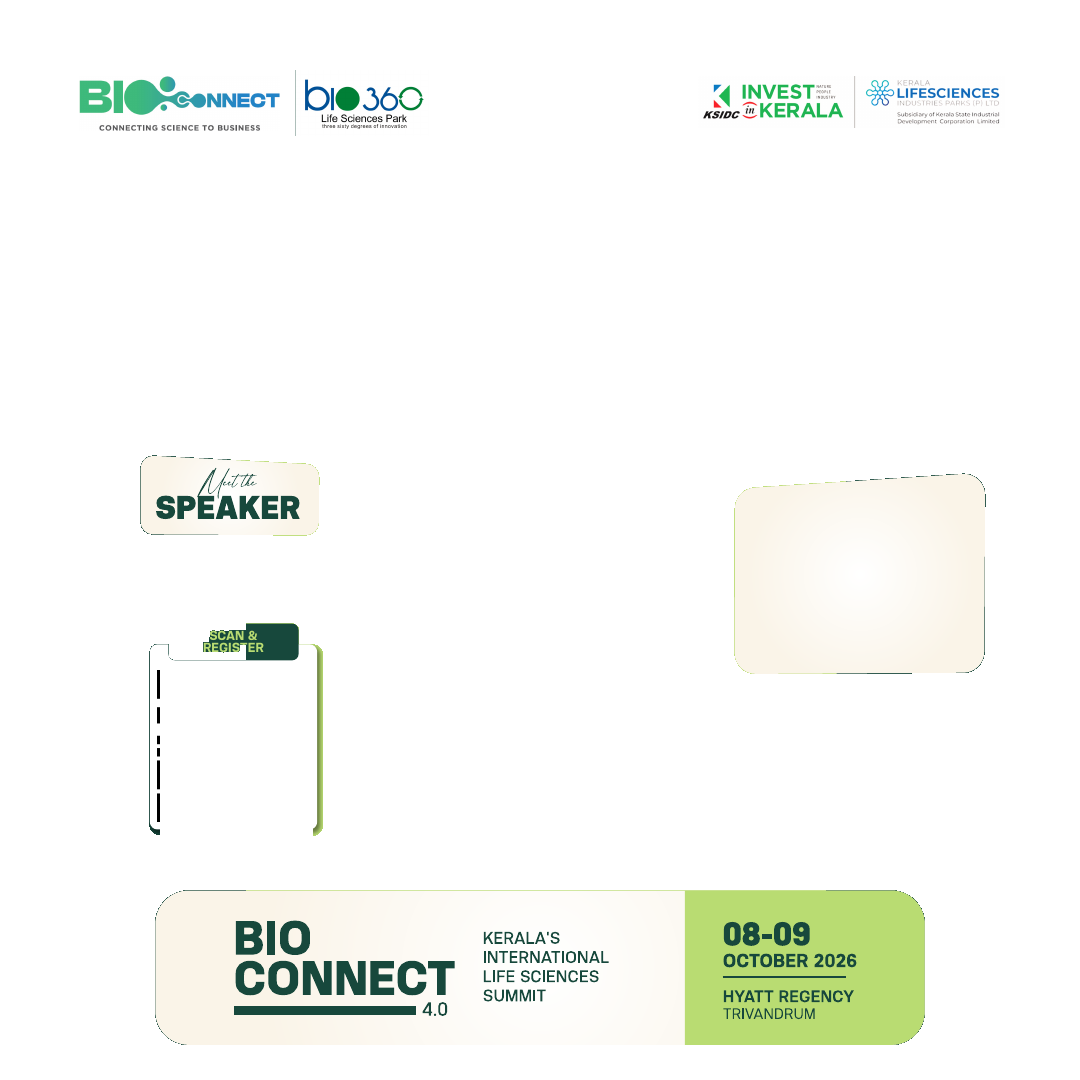
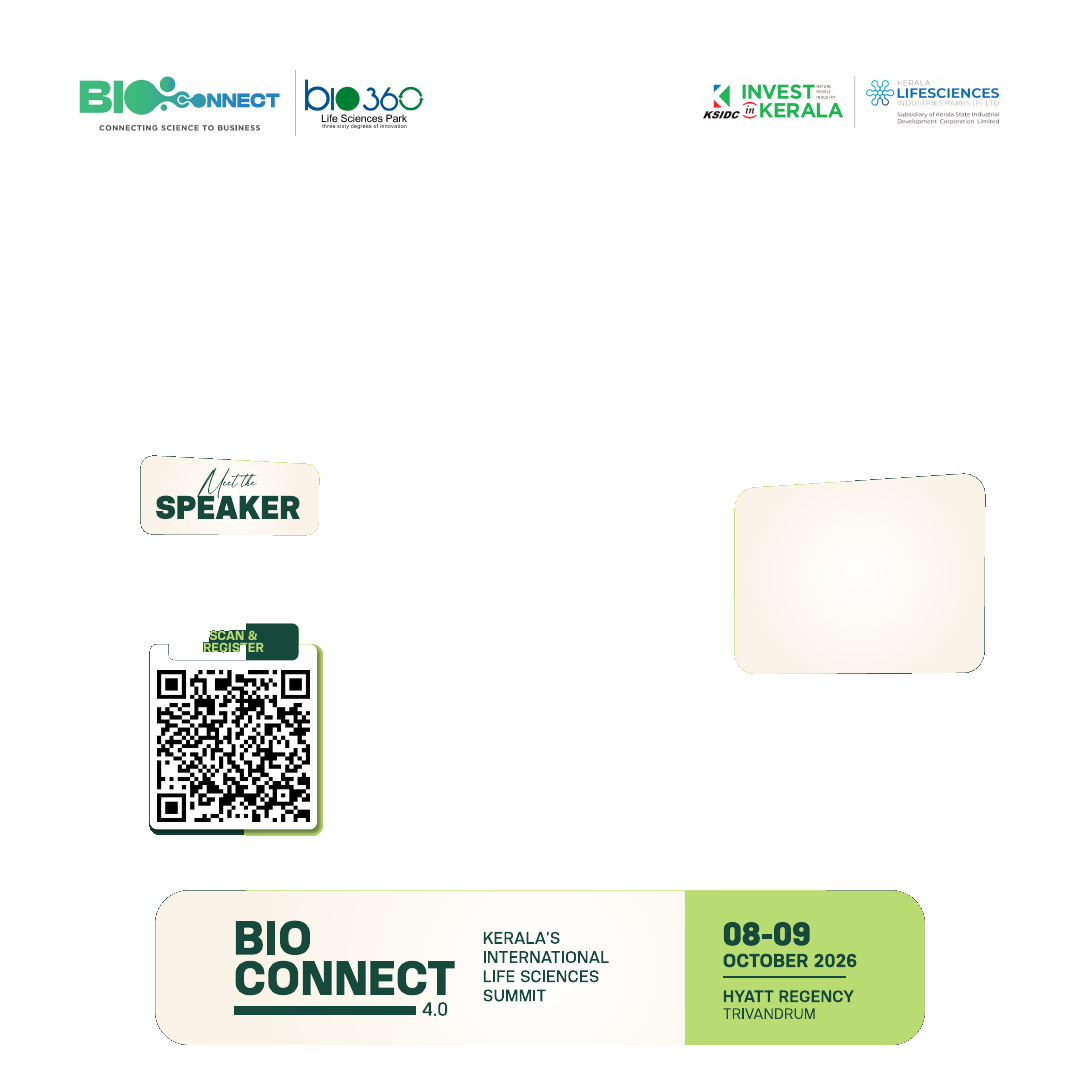
fix(artwork): keep the designer's QR instead of redrawing it
Erasing the code to make room for a generated one left an empty white card on
the poster, which is what it looked like: a blank rectangle under the SCAN &
REGISTER tab. The QR in the artwork is the real registration code and never
varies, so it stays as drawn and the template carries no qr layer.

It resolves to https://bioconnect.kerala.gov.in/ - the main site rather than the
registration page. That is the designer's choice and now travels with the
artwork; changing it means changing the source PDF.

The artwork test now asks for an https qr_url only when a template actually
exposes a QR layer, since one may carry its code in the artwork instead.

Changed region(s): [[0.1528, 0.6111, 0.3056, 0.7944]]

diff --git a/registration/artwork/official.py b/registration/artwork/official.py
@@ -9,7 +9,7 @@ as a font.
 
 Three things have to come out, because they are per-poster content rather than
 template furniture: the speaker's cut-out portrait, the name/designation text in
-the card, and the QR (the studio generates its own so the URL is editable).
+the card. The QR stays: it is the real registration code, already correct.
 
 The split into two layers matters: the badge, the name card and the QR card are
 all drawn *over* the portrait, so they cannot live in the backdrop.
@@ -39,8 +39,7 @@ LIME = (185, 220, 114)
 # Measured from the artwork itself; see README for how.
 PHOTO = (240, 248, 831, 986)      # the portrait's own placement in the PDF
 CARD = (734, 467, 986, 686)       # name / designation / topic card
-QR_CARD = (149, 618, 324, 860)    # white card with the SCAN & REGISTER tab
-QR = (157, 670, 310, 823)         # the code itself, measured off the artwork
+QR_CARD = (149, 618, 324, 860)    # white card with the SCAN & REGISTER tab (kept as drawn)
 LOOKS = {
     # page, page background, colour of the name card's fill
     "light": (1, (250, 244, 232), (23, 72, 60)),
@@ -123,20 +122,20 @@ def arch_mask(rgb):
 
 
 def clear_regions(img, card_fill, clear_card):
-    """Remove the per-speaker text and the sample QR.
+    """Remove the per-speaker name and designation, and nothing else.
+
+    The QR in the artwork is the real registration code, so it stays: erasing it
+    to draw our own left an empty white card, and the studio's QR is only worth
+    generating when the URL needs to vary, which here it does not.
 
     The card keeps its shape and shadow; only its inside is repainted, inset far
     enough to leave the rounded corners and the drop shadow untouched. A source
-    the designer already supplied empty needs only the QR clearing.
+    the designer already supplied empty needs no clearing at all.
     """
-    d = ImageDraw.Draw(img)
     if clear_card:
+        d = ImageDraw.Draw(img)
         x0, y0, x1, y1 = CARD
         d.rectangle([x0 + 9, y0 + 9, x1 - 10, y1 - 10], fill=card_fill + (255,))
-    # The QR sits inside a white card below a "SCAN & REGISTER" tab. Clear only
-    # the code; the card and the tab are furniture the studio draws its QR onto.
-    qx0, qy0, qx1, qy1 = QR_CARD
-    d.rectangle([qx0 + 11, qy0 + 52, qx1 - 12, qy1 - 12], fill=(255, 255, 255, 255))
     return img
 
 
@@ -211,7 +210,6 @@ def write_spec(family, look, bg, card_fill):
     # card_fill here prints dark text on a dark card and it vanishes.
     ink = hexof(bg)
     cx0, cy0, cx1, cy1 = CARD
-    qx0, qy0, qx1, qy1 = QR
 
     text = lambda key, label, box, **kw: dict(
         id=key, type="text", key=key, label=label,
@@ -224,8 +222,7 @@ def write_spec(family, look, bg, card_fill):
 
     spec = dict(
         background=hexof(bg),
-        defaults={"qr_url": "https://reg.bioconnect.kerala.gov.in/delegates",
-                  "topic": "TOPIC:"},
+        defaults={"topic": "TOPIC:"},
         layers=[
             dict(id="backdrop", type="art", asset_id="__BACKDROP__",
                  label="Background & arch", x=0, y=0, w=1080, h=1080),
@@ -246,8 +243,6 @@ def write_spec(family, look, bg, card_fill):
             text("topic", "Topic line",
                  (cx0 + 12, cy0 + 190, cx1 - 12, cy1 - 14),
                  size=11, upper=True, tracking=0.04, lh=1.3),
-            dict(id="qr", type="qr", key="qr_url", label="Registration QR",
-                 x=qx0, y=qy0, w=qx1 - qx0, h=qy1 - qy0),
         ])
     with open(os.path.join(OUT, "specs", f"{family}-1x1.json"), "w") as f:
         json.dump(dict(family=family, name=f"Speaker reveal official - {look}",

diff --git a/registration/internal/app/posterseed_test.go b/registration/internal/app/posterseed_test.go
@@ -99,8 +99,12 @@ func TestEmbeddedPosterArtworkIsConsistent(t *testing.T) {
 				t.Errorf("%s: layer %q has no default", name, key)
 			}
 		}
-		if got := spec.Defaults["qr_url"]; !strings.HasPrefix(got, "https://") {
-			t.Errorf("%s: qr_url default %q is not https", name, got)
+		// A template may carry its QR in the artwork instead of generating one;
+		// the designer's official poster does, because the code never varies.
+		if keyed["qr_url"] {
+			if got := spec.Defaults["qr_url"]; !strings.HasPrefix(got, "https://") {
+				t.Errorf("%s: qr_url default %q is not https", name, got)
+			}
 		}
 		if !keyed["photo"] && !keyed["photo_a"] && !keyed["logo"] && !keyed["count"] {
 			t.Errorf("%s: nothing for staff to fill; no photo, logo or headline field", name)

diff --git a/registration/artwork/README.md b/registration/artwork/README.md
@@ -135,6 +135,14 @@ overlay = everything else. Each of these cost a wrong render:
   backdrop and the portrait shows through the lettering. Closing and hole-filling
   keeps each card, bar and logo solid.
 
+### The QR is the designer's, not ours
+
+The code in the artwork is the real registration QR, so it is left exactly as
+drawn and the template has no `qr` layer. Erasing it to draw our own left an
+empty white card on the poster. It resolves to `https://bioconnect.kerala.gov.in/`
+- the main site rather than the registration page - so if that needs to change,
+it changes in the source PDF, not here.
+
 ### What this template expects
 
 The portrait slot is a **cut-out**: upload a PNG with the background removed, as
